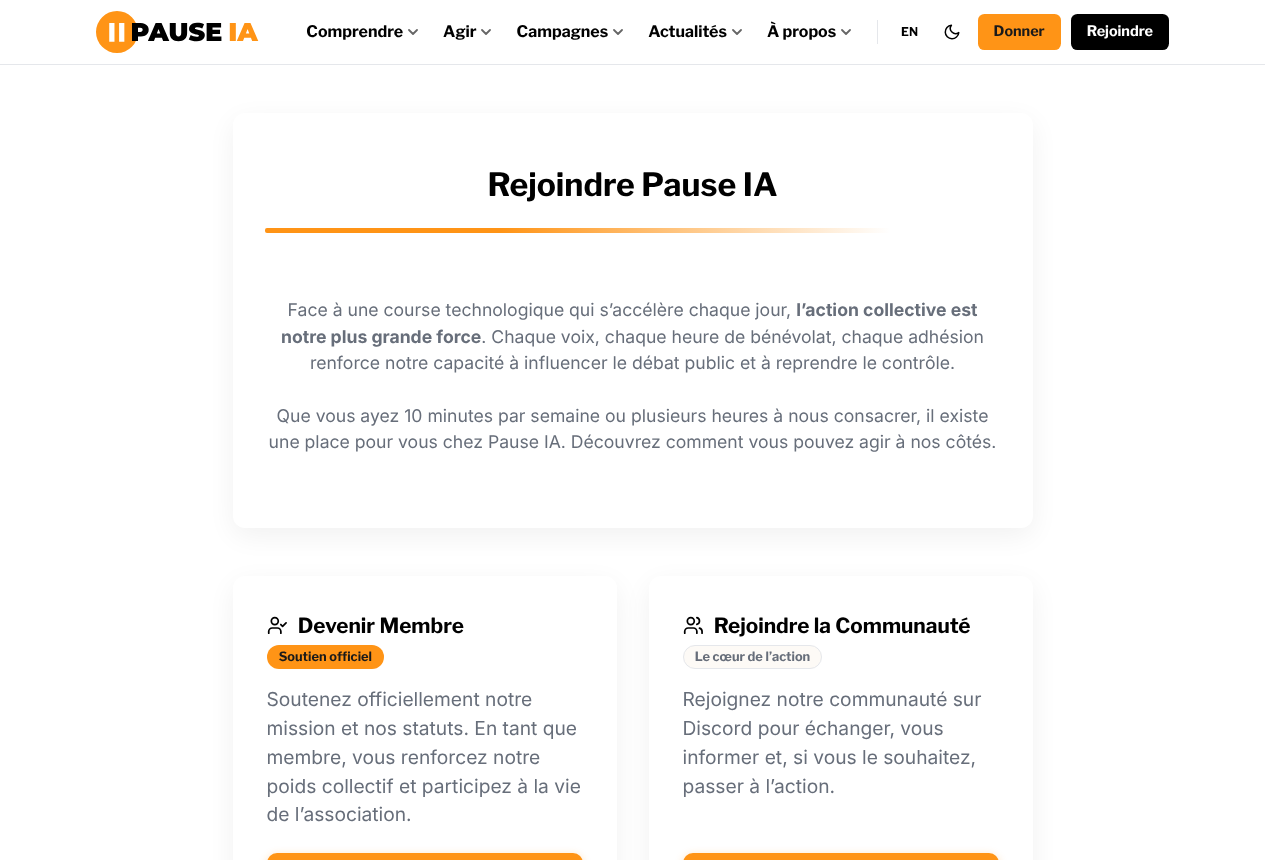
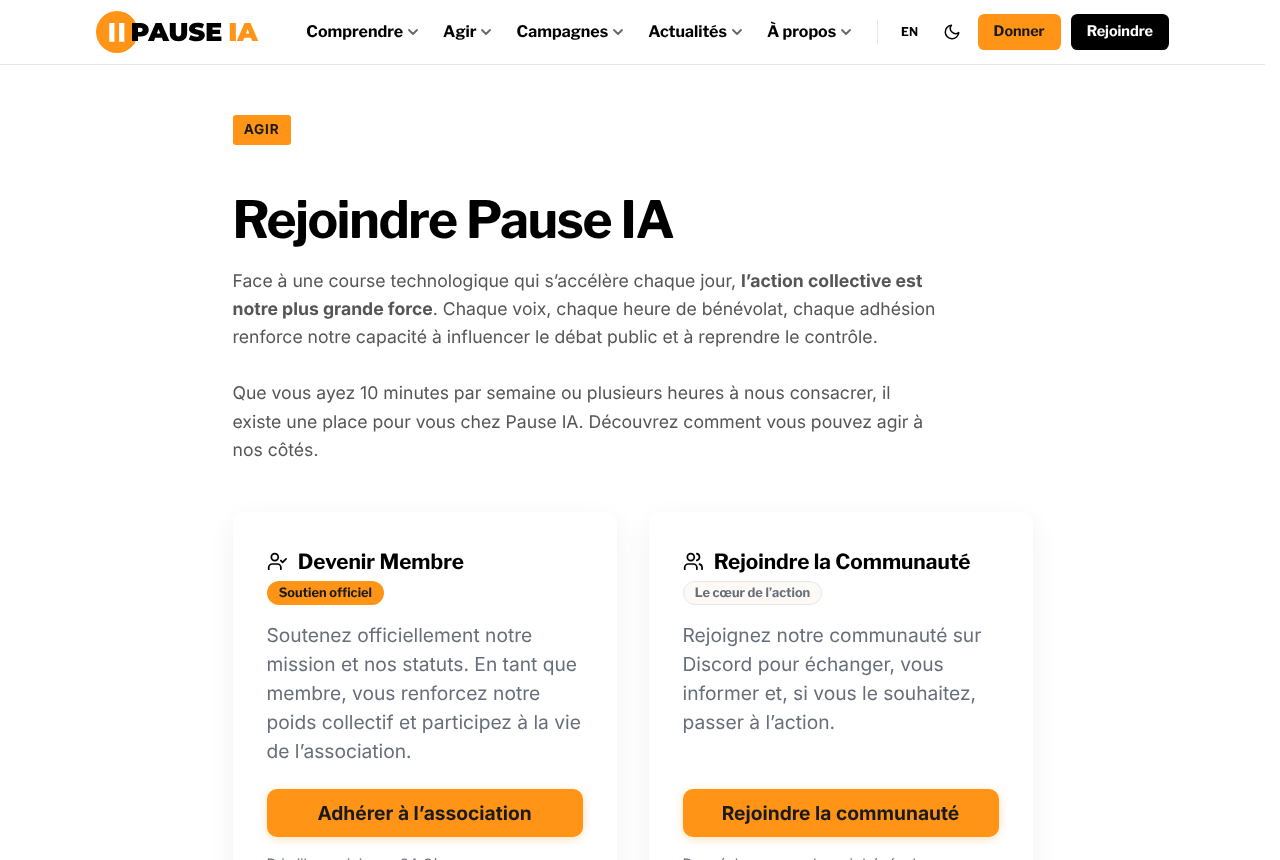
L'apostrophe typographique devient une règle, pas une correction
Les trois passages précédents corrigeaient des fichiers. Celui-ci ajoute la
règle au plugin de typographie, qui traite déjà tout le Markdown : le contenu
à venir en bénéficie sans que personne y pense. La droite n'est jamais
correcte en français, c'est un caractère de machine à écrire.

Trois chemins lui échappaient, et sont traités :

— Les blocs HTML bruts des pages Markdown (cartes, encadrés). Le visiteur
remark ne voit que les nœuds « text ». Une fonction dédiée n'y convertit que
le texte hors balises : une adresse peut contenir une apostrophe, le site en
a une (/fr/dangers/pour-l'humanite), et la convertir casserait la page.

— Le frontmatter, d'où sortent les titres et les descriptions. Invisible sur
la page, visible dans les résultats de recherche et les partages.

— La page FAQ, qui lit le Markdown brut sans passer par mdsvex : ses
questions étaient les dernières du site à garder l'apostrophe droite.

Vérifié page par page : plus aucune apostrophe droite dans le texte visible,
et la page au slug à apostrophe répond toujours 200.

Claude-Session: https://claude.ai/code/session_01Ht85vB3s6syXDjsm7wcNDN

diff --git a/src/lib/typographyPlugin.js b/src/lib/typographyPlugin.js
@@ -133,6 +133,23 @@ export function applyQuoteReplacementRule(text) {
 
 	return result
 }
+/**
+ * Remplace l'apostrophe droite par l'apostrophe typographique.
+ *
+ * Elle n'est jamais correcte en français : la droite est un caractère de
+ * machine à écrire, hérité du code. Les deux cohabitaient sur le site, parfois
+ * dans la même phrase, selon ce que l'auteur avait tapé.
+ *
+ * La règle ne s'applique qu'entre deux lettres, donc jamais à une apostrophe
+ * isolée ni à un délimiteur. Elle ne voit de toute façon que les nœuds de
+ * texte du Markdown : le code, les URL et les attributs lui échappent.
+ *
+ * @param {string} text
+ * @returns {string}
+ */
+export function applyApostropheRule(text) {
+	return text.replace(/([A-Za-zÀ-ÖØ-öø-ÿ])'([A-Za-zÀ-ÖØ-öø-ÿ])/g, '$1\u2019$2')
+}
 
 /**
  * Applies French typography rules to the given text
@@ -153,9 +170,36 @@ export function applyTypographyRules(text) {
 	result = applyFrenchQuotesRule(result)
 	// Replace English quotes with French quotes
 	result = applyQuoteReplacementRule(result)
+	// Apostrophe typographique
+	result = applyApostropheRule(result)
 
 	return result
 }
+/**
+ * Applique l'apostrophe typographique à un bloc HTML brut, en ne touchant
+ * qu'au texte : jamais à l'intérieur d'une balise, donc jamais à un attribut.
+ *
+ * Les pages Markdown du site contiennent des blocs HTML — cartes, accordéons,
+ * encadrés — dont le texte échappait aux règles, puisque le visiteur remark ne
+ * voit que les nœuds « text ». Et une adresse peut contenir une apostrophe :
+ * /fr/dangers/pour-l'humanite.
+ *
+ * @param {string} html
+ * @returns {string}
+ */
+export function applyApostropheRuleToHtml(html) {
+	let out = ''
+	let reste = html
+	for (;;) {
+		const i = reste.indexOf('<')
+		if (i === -1) return out + applyApostropheRule(reste)
+		const j = reste.indexOf('>', i)
+		if (j === -1) return out + applyApostropheRule(reste)
+		out += applyApostropheRule(reste.slice(0, i)) + reste.slice(i, j + 1)
+		reste = reste.slice(j + 1)
+	}
+}
+
 /** @typedef {[string, {originalContent: string, newContent: string}]} FileChangeEntry */
 /** @typedef {Map<string, {originalContent: string, newContent: string}>} FileChanges */
 /** @typedef {import('mdast').Text} TextNode */
@@ -178,6 +222,19 @@ export function remarkFrenchTypography() {
 			originalContent += originalText + '\n'
 			newContent += applyTypographyRules(node.value) + '\n'
 			node.value = applyTypographyRules(node.value)
+		})
+
+		// Blocs HTML bruts : seule l'apostrophe y est traitée, et seulement
+		// hors des balises. Y appliquer les règles d'espacement risquerait de
+		// toucher aux attributs.
+		visit(tree, 'html', (/** @type {{ value: string }} */ node) => {
+			const avant = node.value
+			const apres = applyApostropheRuleToHtml(avant)
+			if (avant !== apres) {
+				originalContent += avant + '\n'
+				newContent += apres + '\n'
+				node.value = apres
+			}
 		})
 
 		if (originalContent !== newContent) {

diff --git a/src/routes/[lang=lang]/rejoindre/+page.svelte b/src/routes/[lang=lang]/rejoindre/+page.svelte
@@ -19,7 +19,8 @@
 <article>
 	{#if lang === 'en'}
 		<section class="hero">
-			<UnderlinedTitle as="h1">Join Pause AI</UnderlinedTitle>
+			<p class="eyebrow">{t.nav.agir}</p>
+			<h1>Join Pause AI</h1>
 			<p class="hero-description">
 				Faced with a technological race that accelerates every day, <strong
 					>collective action is our greatest strength</strong
@@ -121,7 +122,8 @@
 		</section>
 	{:else}
 		<section class="hero">
-			<UnderlinedTitle as="h1">Rejoindre Pause IA</UnderlinedTitle>
+			<p class="eyebrow">{t.nav.agir}</p>
+			<h1>Rejoindre Pause IA</h1>
 			<p class="hero-description">
 				Face à une course technologique qui s’accélère chaque jour, <strong
 					>l’action collective est notre plus grande force</strong
@@ -218,18 +220,39 @@
 		padding: 0 2rem;
 	}
 
+	/* En-tête au modèle : aligné à gauche, sans carte. C'était un encadré
+	   blanc posé sur un fond devenu blanc — seule son ombre le trahissait —
+	   avec un titre et un texte centrés, que rien d'autre sur le site ne
+	   fait. */
 	.hero {
-		text-align: center;
 		margin-bottom: 3rem;
-		background: var(--bg);
-		padding: 3rem 2rem;
-		border-radius: var(--radius-md);
-		box-shadow: var(--shadow-raised);
+	}
+
+	.eyebrow {
+		display: inline-block;
+		margin: 0 0 1rem;
+		padding: 0.3rem 0.7rem;
+		border-radius: 3px;
+		background: var(--brand);
+		color: var(--on-brand);
+		font-size: 0.85rem;
+		font-weight: 700;
+		letter-spacing: 0.06em;
+		text-transform: uppercase;
+	}
+
+	.hero h1 {
+		font-size: clamp(2.1rem, 6vw, 3.2rem);
+		line-height: 1.06;
+		letter-spacing: -0.025em;
+		margin-bottom: 1.25rem;
 	}
 
 	.hero-description {
+		max-inline-size: var(--width-text);
 		font-size: 1.1rem;
-		color: var(--text-secondary);
+		line-height: 1.6;
+		color: var(--text-2);
 		margin-bottom: 1.5rem;
 	}
 

diff --git a/tests/typographyPlugin.test.js b/tests/typographyPlugin.test.js
@@ -9,6 +9,8 @@ import {
 	applyFrenchQuotesRule,
 	applyQuoteReplacementRule,
 	applyNumberUnitRule,
+	applyApostropheRule,
+	applyApostropheRuleToHtml,
 	applyTypographyRules
 } from '$lib/typographyPlugin'
 
@@ -355,5 +357,37 @@ describe('integration', () => {
 		expect(applyTypographyRules('"English" et «French»')).toBe(
 			`«${REGULAR_SPACE}English${REGULAR_SPACE}» et «${REGULAR_SPACE}French${REGULAR_SPACE}»`
 		)
+	})
+})
+
+describe('apostrophe typographique', () => {
+	it('remplace l’apostrophe droite entre deux lettres', () => {
+		expect(applyApostropheRule("l'IA et l'avenir")).toBe('l’IA et l’avenir')
+	})
+
+	it('laisse une apostrophe isolée ou en bord de mot', () => {
+		expect(applyApostropheRule("'bonjour'")).toBe("'bonjour'")
+		expect(applyApostropheRule("fin' debut")).toBe("fin' debut")
+	})
+
+	it('traite les lettres accentuées', () => {
+		expect(applyApostropheRule("qu'être")).toBe('qu’être')
+	})
+
+	it('est appliquée par la chaîne complète', () => {
+		expect(applyTypographyRules("l'IA")).toBe('l’IA')
+	})
+})
+
+describe('apostrophe dans les blocs HTML bruts', () => {
+	it('traite le texte mais pas les attributs', () => {
+		const html = `<a href="/fr/dangers/pour-l'humanite">Dangers pour l'humanité</a>`
+		expect(applyApostropheRuleToHtml(html)).toBe(
+			`<a href="/fr/dangers/pour-l'humanite">Dangers pour l’humanité</a>`
+		)
+	})
+
+	it('traite plusieurs fragments de texte', () => {
+		expect(applyApostropheRuleToHtml("<p>l'un</p><p>l'autre</p>")).toBe('<p>l’un</p><p>l’autre</p>')
 	})
 })

diff --git a/src/lib/faq.ts b/src/lib/faq.ts
@@ -65,9 +65,17 @@ function stripMarkdown(md: string): string {
 }
 
 /** Découpe le markdown de la FAQ en catégories → questions. */
+/** Apostrophe typographique, comme le fait le plugin sur le reste du site. */
+const apostrophe = (t: string) =>
+	t.replace(/([A-Za-zÀ-ÖØ-öø-ÿ])'([A-Za-zÀ-ÖØ-öø-ÿ])/g, '$1\u2019$2')
+
 export function parseFaq(raw: string): FaqCategory[] {
 	// Retire le frontmatter éventuel.
-	const body = raw.replace(/^---\n[\s\S]*?\n---\n/, '')
+	// L'apostrophe typographique est appliquée ici : cette page lit le
+	// Markdown brut, sans passer par mdsvex, donc le plugin de typographie ne
+	// la voit jamais. Ses questions s'affichaient avec l'apostrophe droite,
+	// seules de tout le site.
+	const body = apostrophe(raw.replace(/^---\n[\s\S]*?\n---\n/, ''))
 	const lines = body.split('\n')
 	const categories: FaqCategory[] = []
 	let current: FaqCategory | null = null

diff --git a/src/posts/dangers/pour-l'humanite.md b/src/posts/dangers/pour-l'humanite.md
@@ -1,6 +1,6 @@
 ---
 title: Dangers pour l’humanité
-description: Les dangers existentiels de l'IA, bien que spéculatifs, menacent l'avenir de l'humanité et nécessitent une réflexion anticipée et des recherches en alignement technique, car la régulation seule ne peut contrer l'attrait économique du progrès dans ce domaine.
+description: Les dangers existentiels de l’IA, bien que spéculatifs, menacent l’avenir de l’humanité et nécessitent une réflexion anticipée et des recherches en alignement technique, car la régulation seule ne peut contrer l’attrait économique du progrès dans ce domaine.
 ---
 
 Plus spéculativement, l’IA pose des dangers qui menacent l’avenir de l’humanité. Ces dangers ne peuvent pas forcément être observés, et il est peu probable que nous ayons des signes avant-coureurs évidents avant qu’il ne soit trop tard. C’est pourquoi il est nécessaire d’y réfléchir même s’il existe peu d’arguments empiriques pour aider à y voir plus clair. Ces dangers apocalyptiques sont liés au potentiel de l’Intelligence Artificielle Générale (IAG), et découlent d’innovations technologiques qui pourraient arriver dans 6 mois ou dans 10 ans.

diff --git a/src/posts/dangers/pour-les-individus.md b/src/posts/dangers/pour-les-individus.md
@@ -1,6 +1,6 @@
 ---
 title: Dangers pour les individus
-description: L'intégration de l'IA dans la vie quotidienne présente des dangers pour la vie privée, la sécurité et le bien-être des individus, nécessitant des régulations, une éducation du public et des systèmes d'IA sécurisés pour les atténuer.
+description: L’intégration de l’IA dans la vie quotidienne présente des dangers pour la vie privée, la sécurité et le bien-être des individus, nécessitant des régulations, une éducation du public et des systèmes d’IA sécurisés pour les atténuer.
 ---
 
 L’intégration de l’IA dans la vie quotidienne pose des dangers significatifs pour les individus, touchant à leur vie privée, leur sécurité et leur bien-être. Ces dangers incluent la violation de la confidentialité, la propagation de fausses informations et la manipulation psychologique, avec pour conséquence des dommages émotionnels ou physiques graves. Afin d’atténuer ces dangers, il est crucial de mettre en place des cadres réglementaires robustes et des pratiques de sensibilisation et d’éducation auprès du public, ainsi que des gardes-fous intégrés aux systèmes d’IA.

diff --git a/src/posts/propositions.md b/src/posts/propositions.md
@@ -1,7 +1,7 @@
 ---
 title: Que demandons-nous ?
 rubrique: apropos
-description: Nous demandons une pause mondiale de l'entraînement des modèles d'IA de pointe, le temps qu'une gouvernance internationale se mette en place pour en encadrer le développement.
+description: Nous demandons une pause mondiale de l’entraînement des modèles d’IA de pointe, le temps qu’une gouvernance internationale se mette en place pour en encadrer le développement.
 ---
 
 <script lang="ts">
@@ -47,7 +47,7 @@ Les discours « [rassuristes](/fr/faq) » nous font perdre du temps : l'IA ne se
   <a href="/fr/gouvernance-ia-demarches">Le détail de ces démarches, initiative par initiative &rarr;</a>
 </p>
 
-<Callout title="Vous êtes d'accord ? Passez à l'action">
+<Callout title="Vous êtes d’accord ? Passez à l’action">
 
 Le plus efficace : **[écrire à vos élus](/fr/ecrire-a-mes-elus)**. Cela prend deux minutes, et un message personnel pèse bien plus qu'une signature.
 

diff --git a/src/posts/dangers/pour-la-societe.md b/src/posts/dangers/pour-la-societe.md
@@ -1,6 +1,6 @@
 ---
 title: Dangers pour la société
-description: Les dangers sociétaux de l'IA, incluant des menaces pour la démocratie, la cohésion sociale et l'emploi, nécessitent une régulation proactive, une refonte des systèmes d'information et une éducation à la pensée critique pour préserver nos valeurs et structures sociales.
+description: Les dangers sociétaux de l’IA, incluant des menaces pour la démocratie, la cohésion sociale et l’emploi, nécessitent une régulation proactive, une refonte des systèmes d’information et une éducation à la pensée critique pour préserver nos valeurs et structures sociales.
 ---
 
 <script lang="ts">

diff --git a/src/posts/dangers/economiques-et-materiels.md b/src/posts/dangers/economiques-et-materiels.md
@@ -1,6 +1,6 @@
 ---
 title: Dangers économiques et matériels
-description: Les dangers économiques et matériels de l'IA incluent des impacts sur les infrastructures et les entreprises, de nouvelles vulnérabilités, et des défis d'automatisation, nécessitant une gestion prudente via la régulation et l'innovation technologique.
+description: Les dangers économiques et matériels de l’IA incluent des impacts sur les infrastructures et les entreprises, de nouvelles vulnérabilités, et des défis d’automatisation, nécessitant une gestion prudente via la régulation et l’innovation technologique.
 ---
 
 <script lang="ts">

diff --git a/src/posts/gouvernance-ia-demarches.md b/src/posts/gouvernance-ia-demarches.md
@@ -1,7 +1,7 @@
 ---
-title: "Gouvernance de l'IA : les démarches engagées"
+title: "Gouvernance de l’IA : les démarches engagées"
 rubrique: apropos
-description: Le détail des initiatives internationales et des travaux d'ONG sur lesquels une pause mondiale de l'entraînement des IA de pointe pourrait s'appuyer.
+description: Le détail des initiatives internationales et des travaux d’ONG sur lesquels une pause mondiale de l’entraînement des IA de pointe pourrait s’appuyer.
 ---
 
 <!-- Page de détail, sortie de « Que demandons-nous ? » : cette page-là doit

diff --git a/src/posts/qui-sommes-nous.md b/src/posts/qui-sommes-nous.md
@@ -1,6 +1,6 @@
 ---
 title: Qui sommes-nous ?
-description: Découvrez l'équipe de Pause IA France, association engagée pour une gouvernance responsable de l'intelligence artificielle.
+description: Découvrez l’équipe de Pause IA France, association engagée pour une gouvernance responsable de l’intelligence artificielle.
 original:
   title: QUI
   url: https://github.com/PauseAI/pauseai-website/blob/5950ca0185d6e7cf52e2416e795acfab7222dace/src/posts/faq.md

diff --git a/src/posts/agir.md b/src/posts/agir.md
@@ -1,7 +1,7 @@
 ---
 title: Toutes les façons d’agir
 rubrique: agir
-description: Les actions les plus utiles pour aider à garder l'IA sous contrôle, de 5 minutes à un engagement durable.
+description: Les actions les plus utiles pour aider à garder l’IA sous contrôle, de 5 minutes à un engagement durable.
 original:
   title: Take action
   url: https://github.com/PauseAI/pauseai-website/blob/95be1d5327015a2c41f5c518d92812d7f6c79bda/src/posts/action.md
